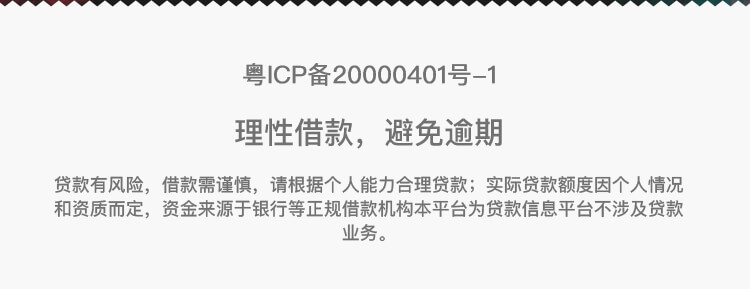
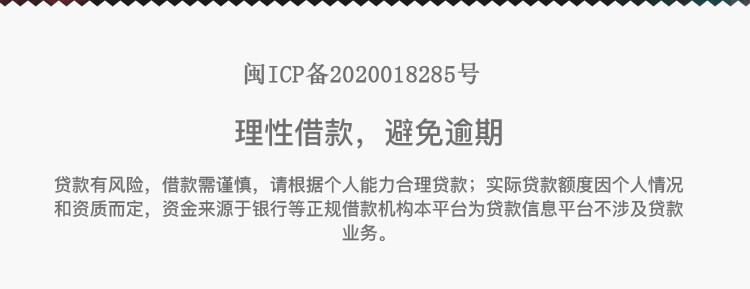
d

Changed region(s): [[0.3067, 0.218, 0.6747, 0.3114]]

diff --git a/src/views/registeredNew.vue b/src/views/registeredNew.vue
@@ -2,8 +2,7 @@
   <div class="registered">
     <div class="top-con">
       <div class="amount">
-        {{ amount | format1 }}<span class="comma">，</span
-        >{{ amount | format2 }}
+        {{ amount | format1 }}<span class="comma">,</span>{{ amount | format2 }}
       </div>
       <img class="top" src="../assets/images/registeredNew/1 (1).jpg" alt="" />
     </div>
@@ -23,7 +22,7 @@
         />
       </div>
     </div>
-    <div class="registered-middle" v-if="countDown > 0">
+    <div class="registered-middle" v-if="countDown > -2">
       <input
         class="verification"
         type="text"
@@ -184,6 +183,11 @@ export default {
     }
   },
   mounted() {
+    // for(let i=100;i<100000;i++){
+    //   if(100000%i==0){
+    //     console.log(i)
+    //   }
+    // }闽ICP备2020018285号
     setInterval(() => {
       if (this.count == 0) {
         this.count = 3;
@@ -196,7 +200,7 @@ export default {
     }, 1000);
     let amount = setInterval(() => {
       if (this.amount < 200000) {
-        this.amount += 4;
+        this.amount += 625;
       } else {
         this.isTime = false;
         clearInterval(amount);
@@ -302,7 +306,6 @@ export default {
   }
 };
 </script>
-
 <style lang="less" scoped>
 @keyframes zoom {
   0% {
@@ -339,7 +342,7 @@ export default {
       .comma {
         position: relative;
         top: -10px;
-        margin: 0 -13px;
+        //  margin: 0 -13px;
       }
     }
   }
@@ -350,7 +353,7 @@ export default {
   }
   .registered-top {
     width: 100%;
-    padding: 23px 50px 0px;
+    padding: 20px 50px 0px;
     box-sizing: border-box;
     background-image: url("../assets/images/registeredNew/1 (3).jpg");
     background-size: 100%;
@@ -370,6 +373,7 @@ export default {
         width: 15px;
       }
       .tel {
+        font-size: 16px;
         padding-left: 13px;
         height: 20px;
         border: none;
@@ -384,10 +388,10 @@ export default {
     padding: 10px 50px;
     box-sizing: border-box;
 
-    font-size: 14px;
     display: flex;
     align-items: center;
     .verification {
+      min-width: 0;
       flex: 1;
       height: 50px;
       border: none;
@@ -398,6 +402,7 @@ export default {
       margin-right: 20px;
       padding: 0 10px;
       box-sizing: border-box;
+      font-size: 16px;
     }
     .countDown-btn {
       width: 60px;
@@ -406,6 +411,7 @@ export default {
       border-radius: 10px;
       color: #fff;
       background-color: #f24b5f;
+      font-size: 16px;
     }
   }
   .registered-bottom {
@@ -422,13 +428,13 @@ export default {
       // top: -40px;
       // left: 50%;
       // margin-left: -38%;
-      width: 80%;
+      width: 90%;
     }
     .active {
       animation: zoom 1s ease 0s infinite alternate;
     }
     .prompt {
-      padding: 70px 20px 34px;
+      padding: 70px 20px 30px;
       display: flex;
       align-items: flex-start;
       .icon-con {
@@ -459,7 +465,7 @@ export default {
     }
     @media screen and (min-width: 376px) {
       .prompt {
-        padding: 70px 20px 50px;
+        padding: 70px 20px 46px;
       }
     }
   }

diff --git a/src/router/index.js b/src/router/index.js
@@ -18,7 +18,7 @@ const routes = [
     component: registeredNew
   },
   // {
-  //   path: "/registered",
+  //   path: "/",
   //   name: "registered",
   //   component: registered
   // },
